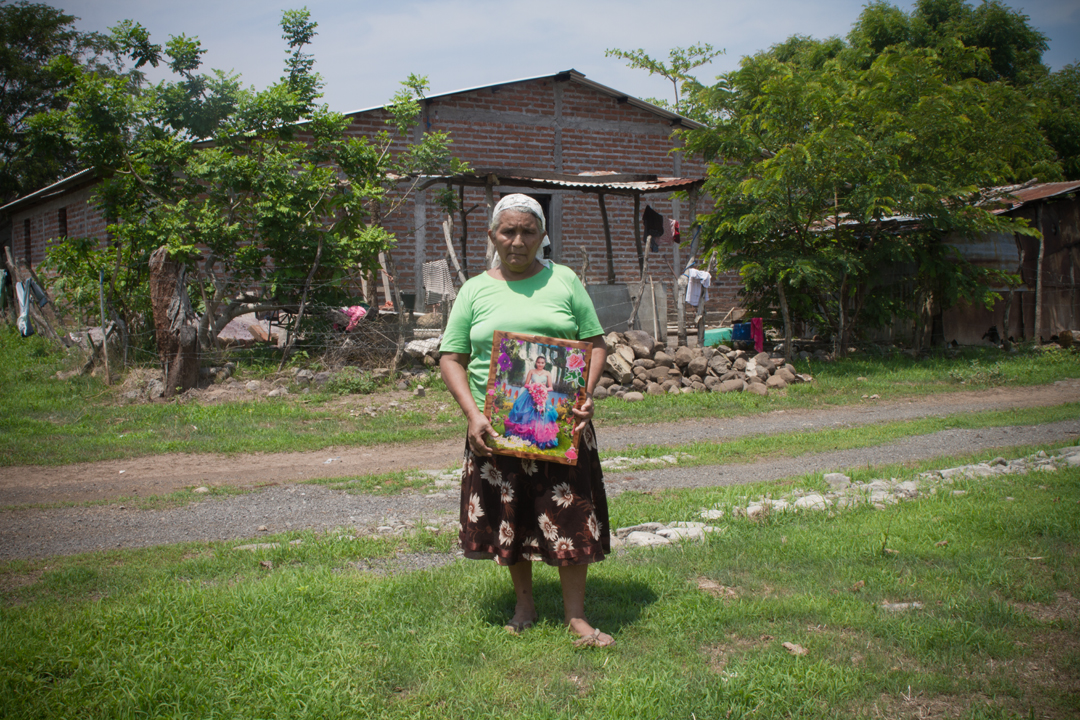
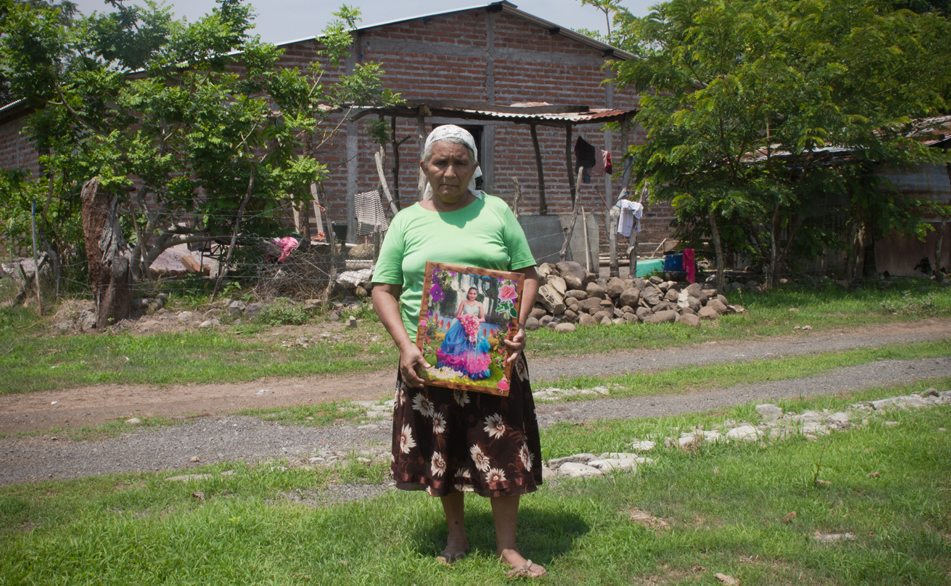
minor tweaks

diff --git a/index.html b/index.html
@@ -8,7 +8,7 @@
 </section>
 <section id="intro">
   <div class="container">
-    <h1 class="text-center"><img src="img/mas72.jpg" class="img-responsive" /></h1>
+    <h1 class="text-center"><img src="img/mas72.jpg" /></h1>
     <div class="row-fluid">
       <div class="col-md-8 col-md-offset-2">
         {{ read_file("_docs/intro.md")|markdown }}
